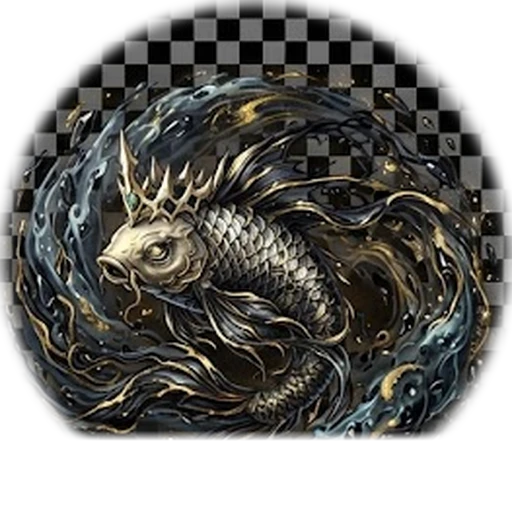
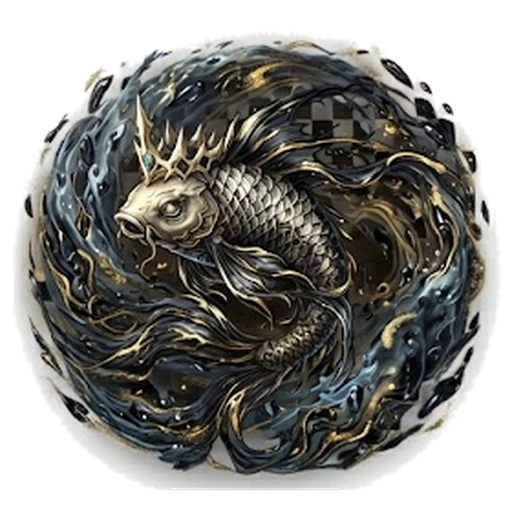
星露島：7 張魚改成透明底；加上釣竿、魚餌、釣一次按鈕的圖
Claude-Session: https://claude.ai/code/session_014BhPeNrpvZrWQU4v9wXcG7

diff --git a/farm-fish.js b/farm-fish.js
@@ -98,12 +98,12 @@
     steel: { name: "鋼竿", price: 1500, lv: 25, rate: [38, 25, 21, 12, 4], emoji: "🎣" },
     starsand: { name: "星砂竿", price: 5000, lv: 35, rate: [30, 24, 24, 15, 7], emoji: "✨" }
   };
-  for (const k of Object.keys(D.rods)) if (HAS_IMG.has("rod_" + k)) D.rods[k].img = `../ui/rod_${k}.webp`;
+  for (const k of Object.keys(D.rods)) D.rods[k].img = `../ui/rod_${k}.webp`;
 
   /* 魚餌：飼料機旁邊的第二條生產線，10 分鐘做 5 個，最多排 5 輪，做好自動收 */
   D.items.bait = { name: "魚餌", emoji: "🪱", kind: "goods", tier: "c", desc: "釣一次魚用 1 個" };
-  if (HAS_IMG.has("bait")) D.items.bait.img = "../ui/bait.webp";
+  D.items.bait.img = "../ui/bait.webp";
   D.machines.baitline = { name: "魚餌線", lv: 15, where: "ranch", emoji: "🪱", queue: 5, fixed: true, auto: true };
-  if (HAS_IMG.has("bait")) D.machines.baitline.img = "../ui/bait.webp";
+  D.machines.baitline.img = "../ui/bait.webp";
   D.recipes.bait = { out: "bait", qty: 5, need: { feed: 2, wheat: 1 }, minutes: 10, machine: "baitline", lv: 15 };
 })();

diff --git a/farm.js b/farm.js
@@ -4696,7 +4696,7 @@ const FARM_JS_VERSION = "2026-10-19 v3";
         const rates = rod.rate.map((r, i) => `<span class="fm-tag r-${FISH_TIERS[i]}">${tierName(FISH_TIERS[i])} ${r}%</span>`).join(" ");
         body = `<div class="fm-panel">${resHtml}
           <div class="fm-fish-btns">
-            <button type="button" class="fm-btn green" data-act="fish" data-n="1" ${bait ? "" : "disabled"}>🎣 釣一次</button>
+            <button type="button" class="fm-btn green" data-act="fish" data-n="1" ${bait ? "" : "disabled"}>${uiIcon("fish_cast", "fm-btn-ic")}釣一次</button>
             <button type="button" class="fm-btn" data-act="fish" data-n="5" ${bait >= 2 ? "" : "disabled"}>釣 ${Math.min(5, Math.max(1, bait))} 次</button>
           </div>
           <p class="fm-note" style="margin:8px 0 4px">${rod.emoji} 現在用 <b>${esc(rod.name)}</b>：</p><div>${rates}</div>

diff --git a/index.html b/index.html
@@ -7239,8 +7239,8 @@
 <script src="game.js"></script>
 <script src="accum.js?v=20261019b"></script>
 <script src="farm-data.js?v=20261019d"></script>
-<script src="farm-fish.js?v=20261019d"></script>
-<script src="farm.js?v=20261019d"></script>
+<script src="farm-fish.js?v=20261019e"></script>
+<script src="farm.js?v=20261019e"></script>
 <script src="fold.js?v=20261017a"></script>
 <script src="friends.js?v=20261019a"></script>
 
